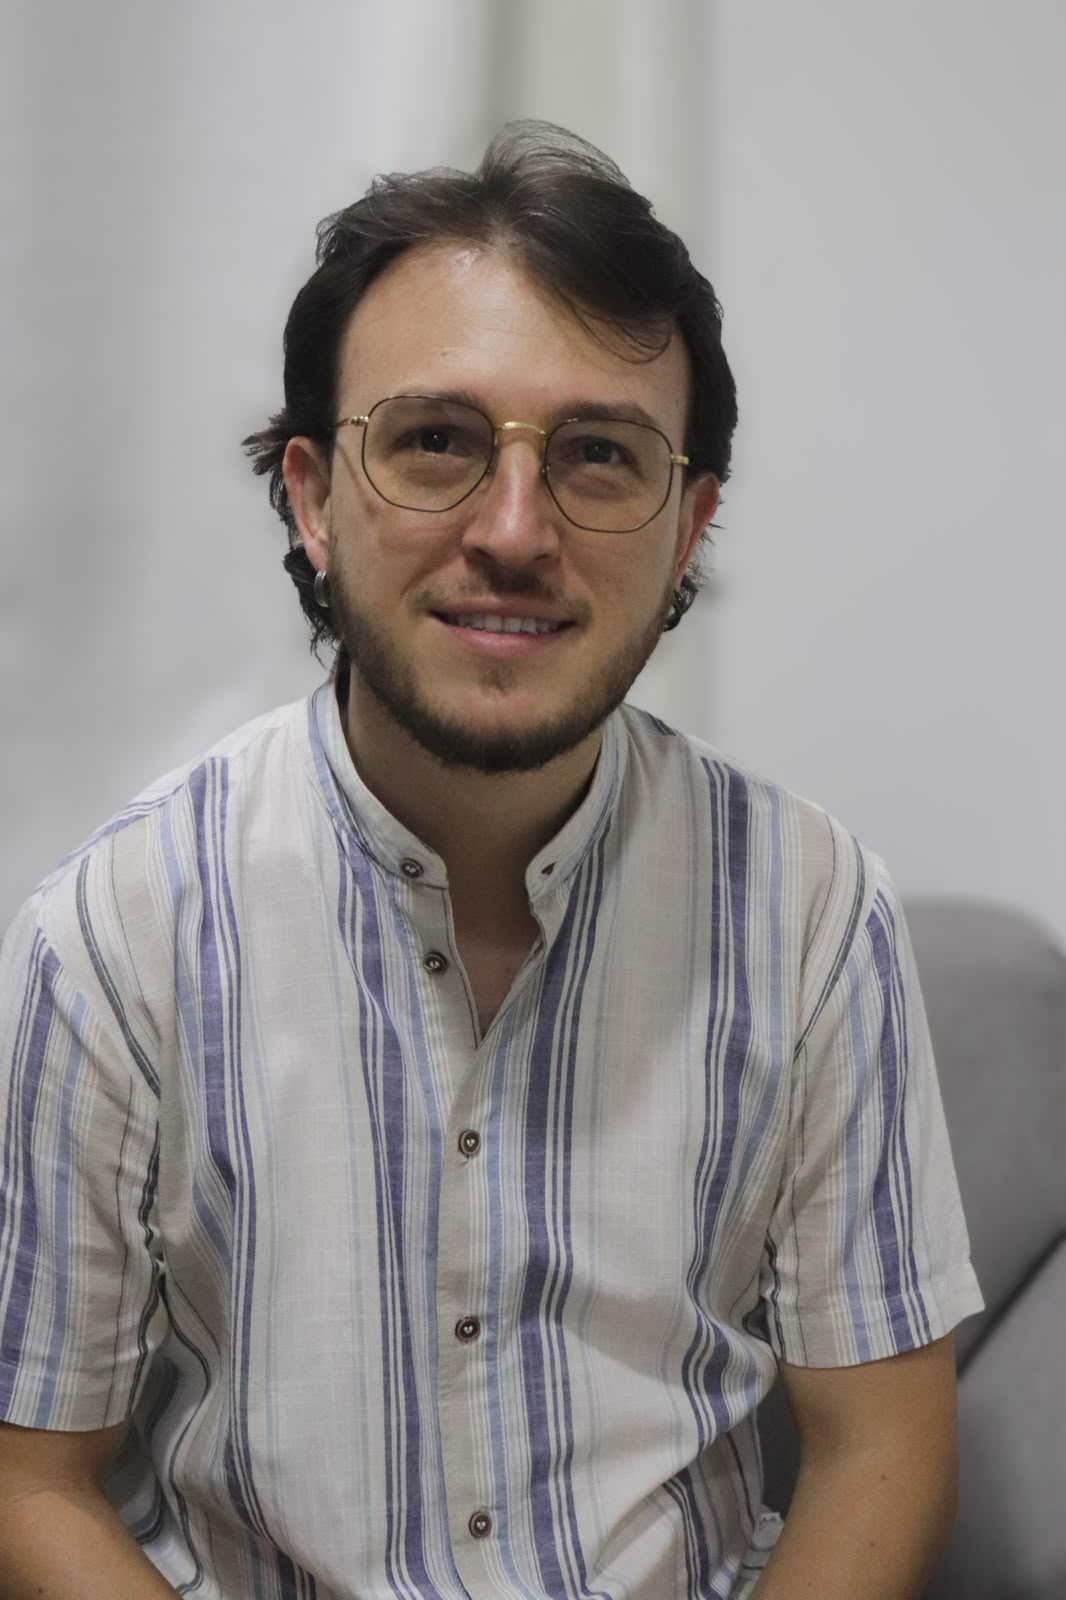
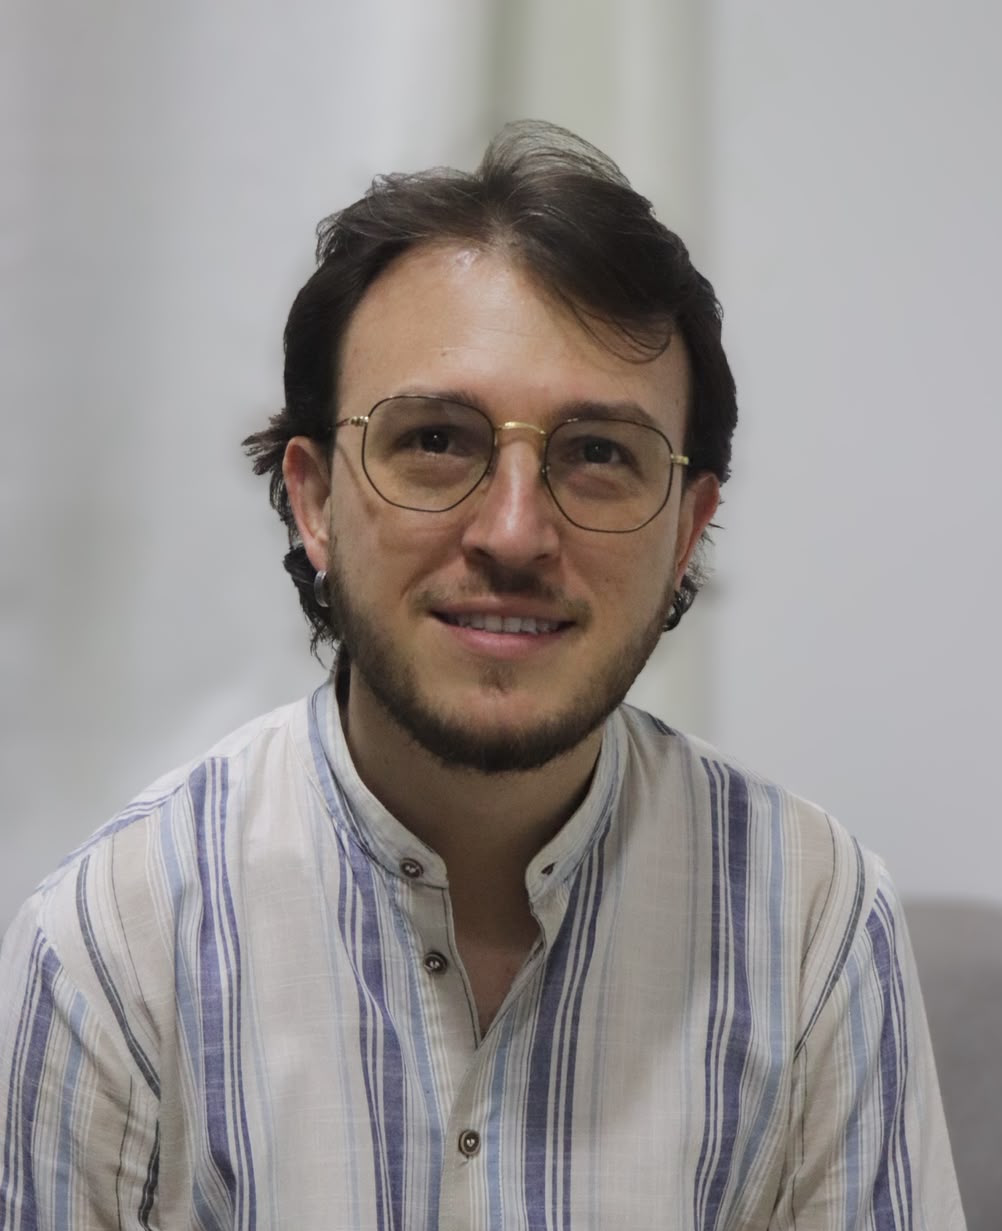
upDate

diff --git a/src/components/layout/SiteLayout.tsx b/src/components/layout/SiteLayout.tsx
@@ -210,7 +210,7 @@ export function SiteLayout({
           </div>
           <div className="border-t border-white/10">
             <div className="container-clinic py-6 flex flex-wrap justify-between items-center gap-4 text-xs opacity-60">
-              <span>© {new Date().getFullYear()} Comunidad Gestáltica</span>
+              <span>© 2025 Comunidad Gestáltica</span>
               <span>Estudios de Gestalt de Campo · Dany R. Mora Bracho</span>
             </div>
           </div>

diff --git a/src/data/docentes.ts b/src/data/docentes.ts
@@ -79,7 +79,7 @@ export const docentes: Docente[] = [
     pais: "Venezuela · Colombia",
     descripcion:
       "Psicólogo, magíster en Orientación. Terapeuta Gestáltico con formación en psicopatología. Fundador de Comunidad Gestáltica: Estudios de Gestalt de Campo.",
-    foto: "/img/DanyMoraBracho.png",
+    foto: "/img/DanyMora.jpg",
     bandera: "/img/bandera-venezuela.png",
     banderas: ["/img/bandera-venezuela.png", "/img/bandera-colombia.png"],
   },
